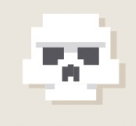
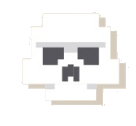
Joueurs affichés et artéfacts

diff --git a/src/fr/forbidden_island/graphics/IslandView.java b/src/fr/forbidden_island/graphics/IslandView.java
@@ -58,7 +58,10 @@ public class IslandView extends JPanel implements Observer{
 					g.drawImage(r.getImage(j+5), modele.artefacts[j].getAbsc()*modele.getSize(), modele.artefacts[j].getOrd()*modele.getSize(), modele.getSize(), modele.getSize(),this);
 				}
 				for(int i=0;i<modele.getNbJoueurs();i++) {
-					g.drawImage(r.getImage(3), modele.joueurs[i].getAbsc()*modele.getSize(), modele.joueurs[i].getOrd()*modele.getSize(), modele.getSize(), modele.getSize(),this);
+					for(int c=0;c<modele.getNbJoueurs();c++) {
+						g.drawImage(r.getImage(i+9), modele.joueurs[i].getAbsc()*modele.getSize(), modele.joueurs[i].getOrd()*modele.getSize(), modele.getSize(), modele.getSize(),this);
+					}
+					
 				}
 			}
 		}

diff --git a/src/fr/forbidden_island/data/Ressources.java b/src/fr/forbidden_island/data/Ressources.java
@@ -18,8 +18,8 @@ public class Ressources {
 	 */
 	public Ressources() {
 		Image image = null;
-		images = new Image[9];
-		for(int i=0;i<9;i++) {
+		images = new Image[13];
+		for(int i=0;i<images.length;i++) {
 			try {
 				File fichier = new File("src/images/"+i+".png");
 				image = ImageIO.read(fichier);
